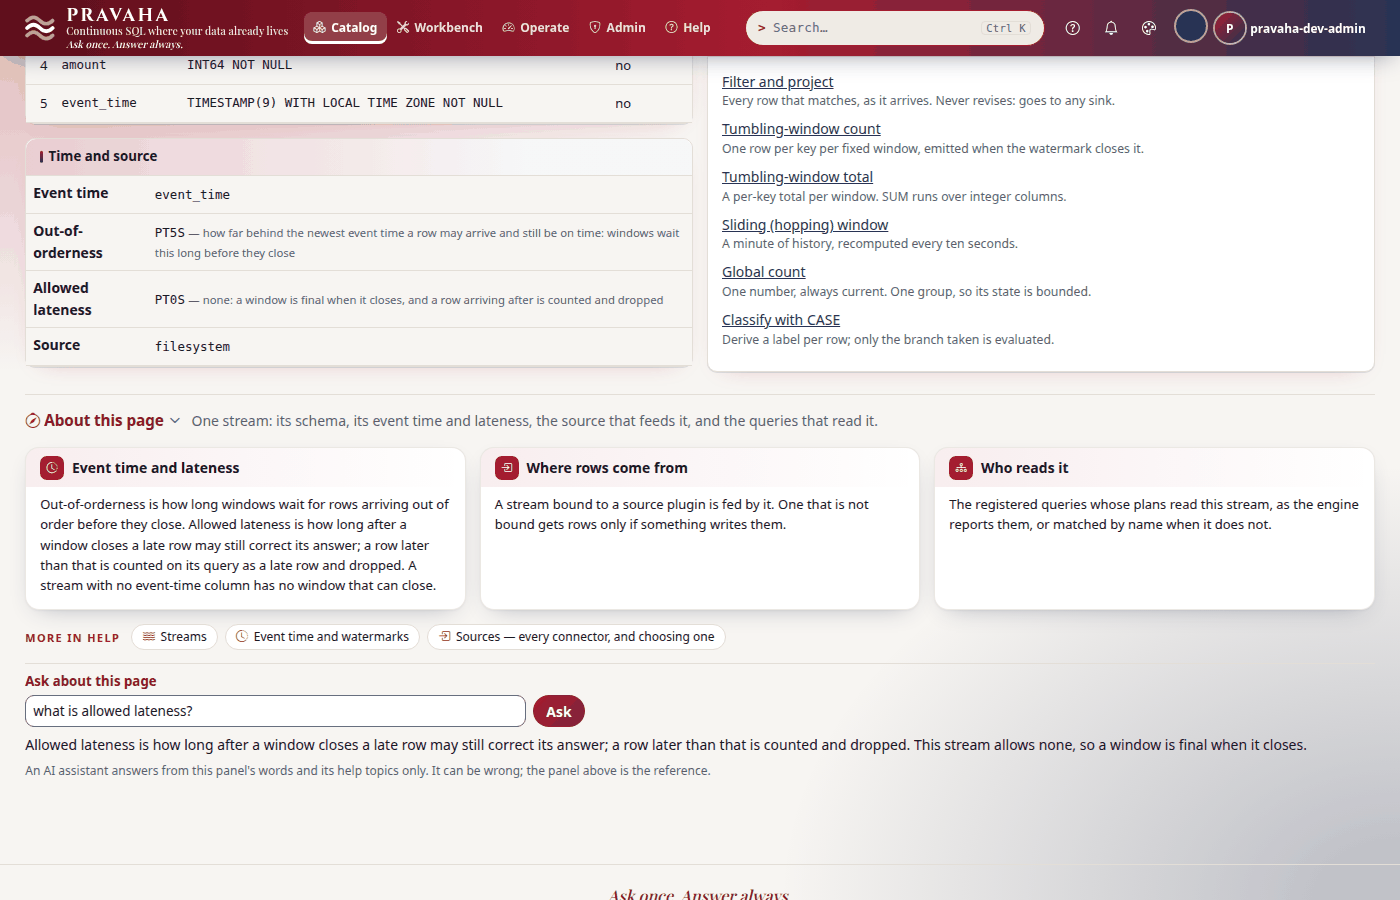
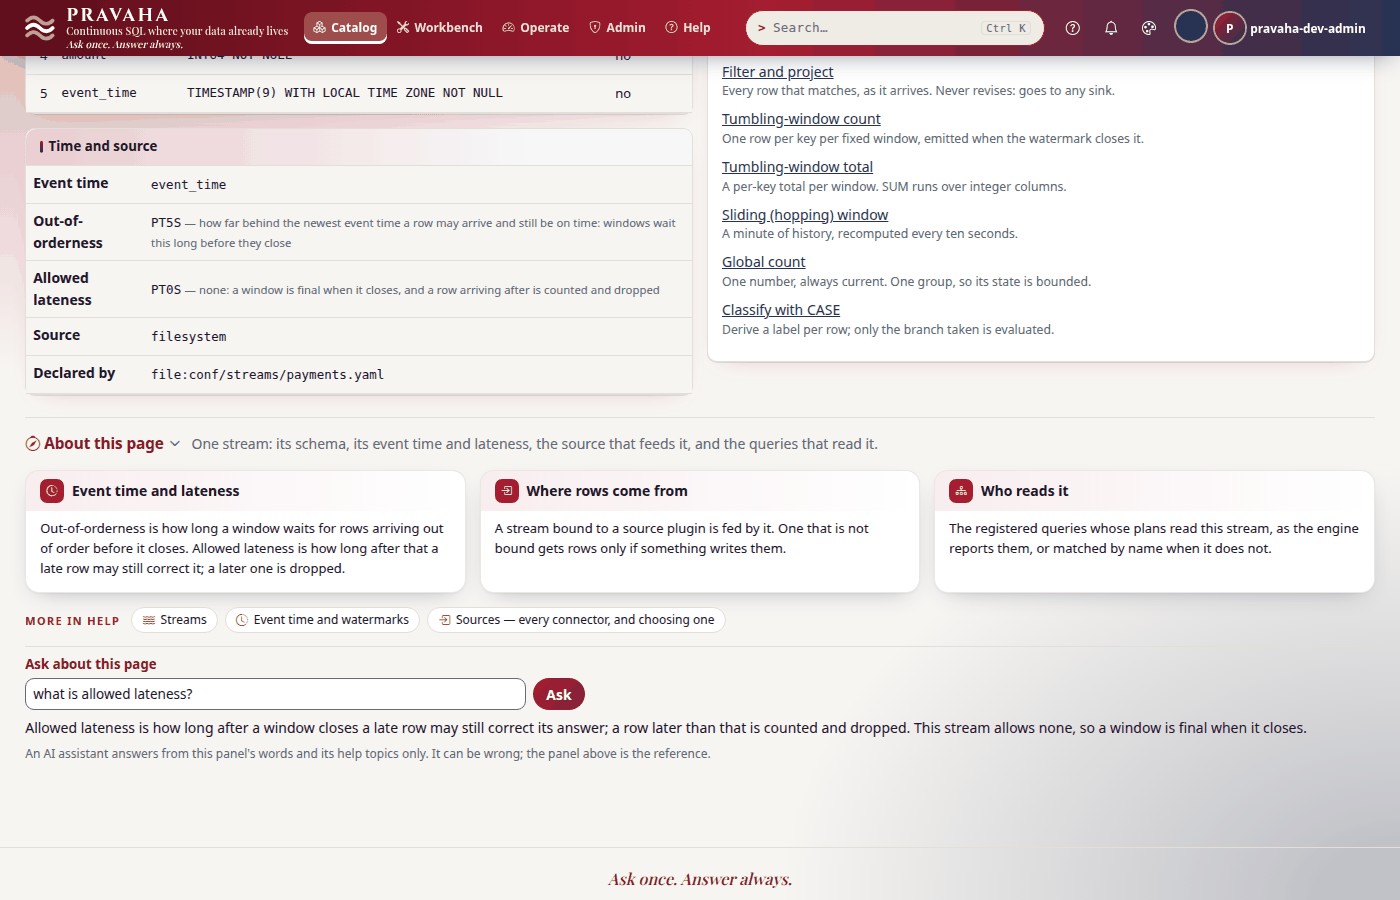
Tutorial 16 on the fixes: query --ask prints instants, a taken draft name gets _2; the stream in conf/streams/; the stream page with its origin and its shorter About tile

diff --git a/sdk/python/tools/tutorials/t16.py b/sdk/python/tools/tutorials/t16.py
@@ -19,6 +19,7 @@ from tutorial_captures import Cli, Http, Node, Open, Sh, Snap, Ui, Until
 DOC = "16-ai-in-pravaha.md"
 
 NODE = Node(config="t16/application.yaml", files=(
+    ("t16/streams", "conf/streams"),
     ("t16/payments.csv", "data/incoming/payments.csv"),
     ("t16/mock.yaml", "conf/ai/mock.yaml"),
     ("t16/region_minutes.sql", "region_minutes.sql"),

diff --git a/docs/tutorials/16-ai-in-pravaha.md b/docs/tutorials/16-ai-in-pravaha.md
@@ -24,14 +24,15 @@ provider behind it. Every output below was printed by a real node running these 
 - [Tutorial 1](01-first-15-minutes.md) done; [tutorial 10](10-alerts.md) for alerts and
   [tutorial 11](11-governance.md) for users help, but are not needed.
 - Nothing to buy and no key: the mock provider is part of Pravaha.
-- The tutorial's files, in [data/t16/](data/t16/): `application.yaml` (the stream, a log channel, the
-  audit file and the AI layer on), `mock.yaml` (the mock provider's rules), `payments.csv` (eight card
+- The tutorial's files, in [data/t16/](data/t16/): `application.yaml` (a log channel, the audit file
+  and the AI layer on), `streams/payments.yaml` (the stream, for the node's `conf/streams/`),
+  `mock.yaml` (the mock provider's rules), `payments.csv` (eight card
   payments from three regions), `region_minutes.sql` and `big_payments.sql`.
 
 ```bash
 export PRAVAHA_HOME=$HOME/pravaha-t16
 mkdir -p $PRAVAHA_HOME/conf/ai $PRAVAHA_HOME/data/incoming
-cp docs/tutorials/data/t16/application.yaml $PRAVAHA_HOME/conf/
+cp -r docs/tutorials/data/t16/application.yaml docs/tutorials/data/t16/streams $PRAVAHA_HOME/conf/
 cp docs/tutorials/data/t16/mock.yaml $PRAVAHA_HOME/conf/ai/
 cp docs/tutorials/data/t16/payments.csv $PRAVAHA_HOME/data/incoming/
 bin/pravaha-server --spring.profiles.active=dev,users &
@@ -205,17 +206,16 @@ the SQL the model chose
   SELECT window_end, SUM(spend) AS total FROM region_minutes GROUP BY window_end
 Adds up every region's spend in each minute.
 
-window_end           total
-1790845260000000000  6800
-1790845320000000000  5200
+window_end                 total
+2026-10-01 09:01:00+00:00  6800
+2026-10-01 09:02:00+00:00  5200
 
 chart  line  x=window_end y=total
 2 rows; run as you; values sent to the model: labels-only; nothing saved
 ```
 <!-- /capture -->
 
-(On this build `query --ask` prints a `TIMESTAMP` column as nanoseconds since 1970 where `query`
-prints the instant — `1790845260000000000` is 2026-10-01 09:01:00 UTC; AIASKTS-1.) **Follow-ups**:
+**Follow-ups**:
 `chat` sends each question with the last three and the SQL chosen for them, so "and only for EU?"
 changes the previous SQL rather than starting again:
 
@@ -436,11 +436,10 @@ PRV-1088  the model could not write this as an alert on a view you may read: No 
 ```
 <!-- /capture -->
 
-On **Alerts**, *Describe an alert*. Asked again, the name `region_over_5000` is taken and the draft is
-named `region_over_2` — the counter replaced the name's own number instead of following it
-(AINAME-1):
+On **Alerts**, *Describe an alert*. Asked again, the name `region_over_5000` is taken, so the draft is
+named `region_over_5000_2`:
 
-![Alerts, Describe an alert: the description, and the draft alert region_over_2, not created: notifies when a region's spend in one minute is over 5000, on the view region_minutes, when spend > 5000, notify ops_log, its statement with severity critical, Open in Workbench and Create; the page badged 1 firing, and the list of alerts beginning below](img/t16/04-alert.png)
+![Alerts, Describe an alert: the description, and the draft alert region_over_5000_2, not created: notifies when a region's spend in one minute is over 5000, on the view region_minutes, when spend > 5000, notify ops_log, its statement with severity critical, Open in Workbench and Create; the page badged 1 firing, and the list of alerts beginning below](img/t16/04-alert.png)
 
 You should see the statement `CREATE ALERT region_over_5000 ON region_minutes WHERE spend > 5000 NOTIFY
 ops_log`, the alert `ACTIVE` with `1` firing, and `PRV-1088` for the alert no view can support.
@@ -582,7 +581,7 @@ the engine accepts this statement now: it raised no refusal for it
 words and up to four of its help topics, never anything from the browser, and the answer comes from that
 text only — "The page does not say." when it does not:
 
-![A stream's page, payments: Time and source with out-of-orderness PT5S and allowed lateness PT0S; About this page with its three cards; and Ask about this page with the question what is allowed lateness?, answered that allowed lateness is how long after a window closes a late row may still correct its answer, a later row being counted and dropped, and that this stream allows none](img/t16/06-page.png)
+![A stream's page, payments: Time and source with out-of-orderness PT5S, allowed lateness PT0S and Declared by file:conf/streams/payments.yaml; About this page with its three cards; and Ask about this page with the question what is allowed lateness?, answered that allowed lateness is how long after a window closes a late row may still correct its answer, a later row being counted and dropped, and that this stream allows none](img/t16/06-page.png)
 
 You should see the explanation, `PRV-2050` with a `Try:` rewrite, the echoed prompt with `KEYS ENTERED
 (up to 20): [9]` and no amount, and `card_number = '•••'`.
